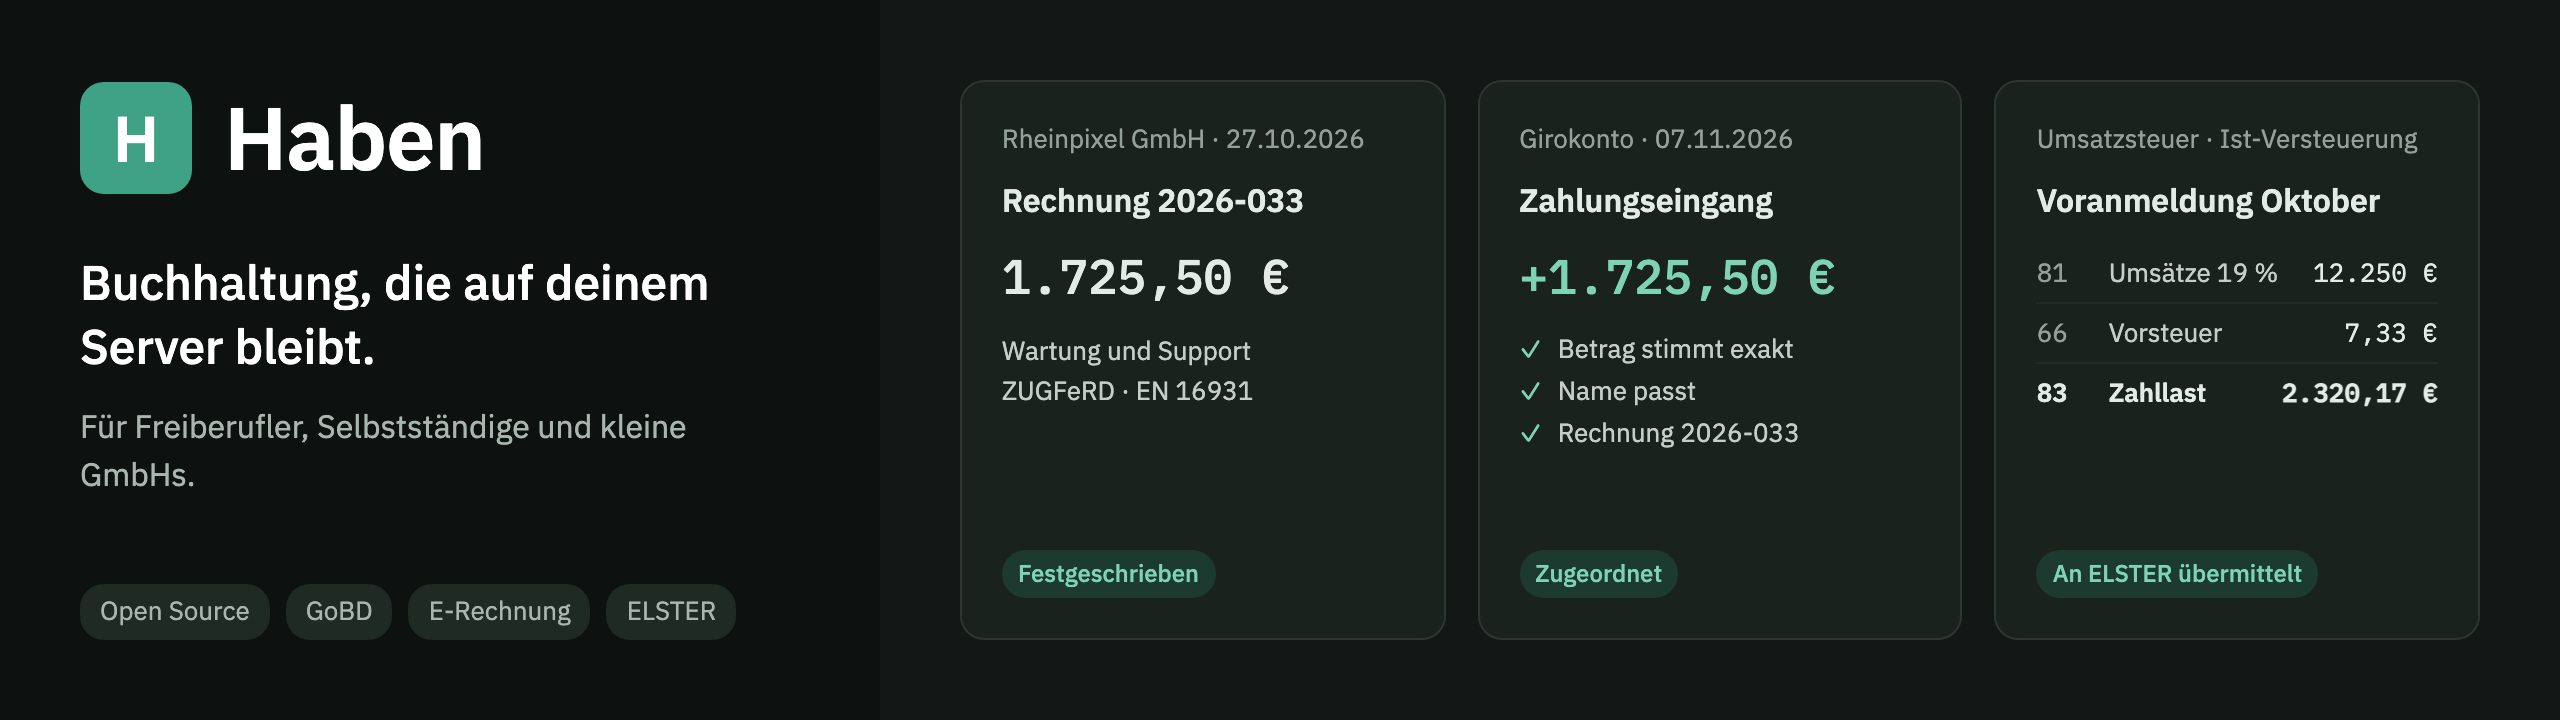
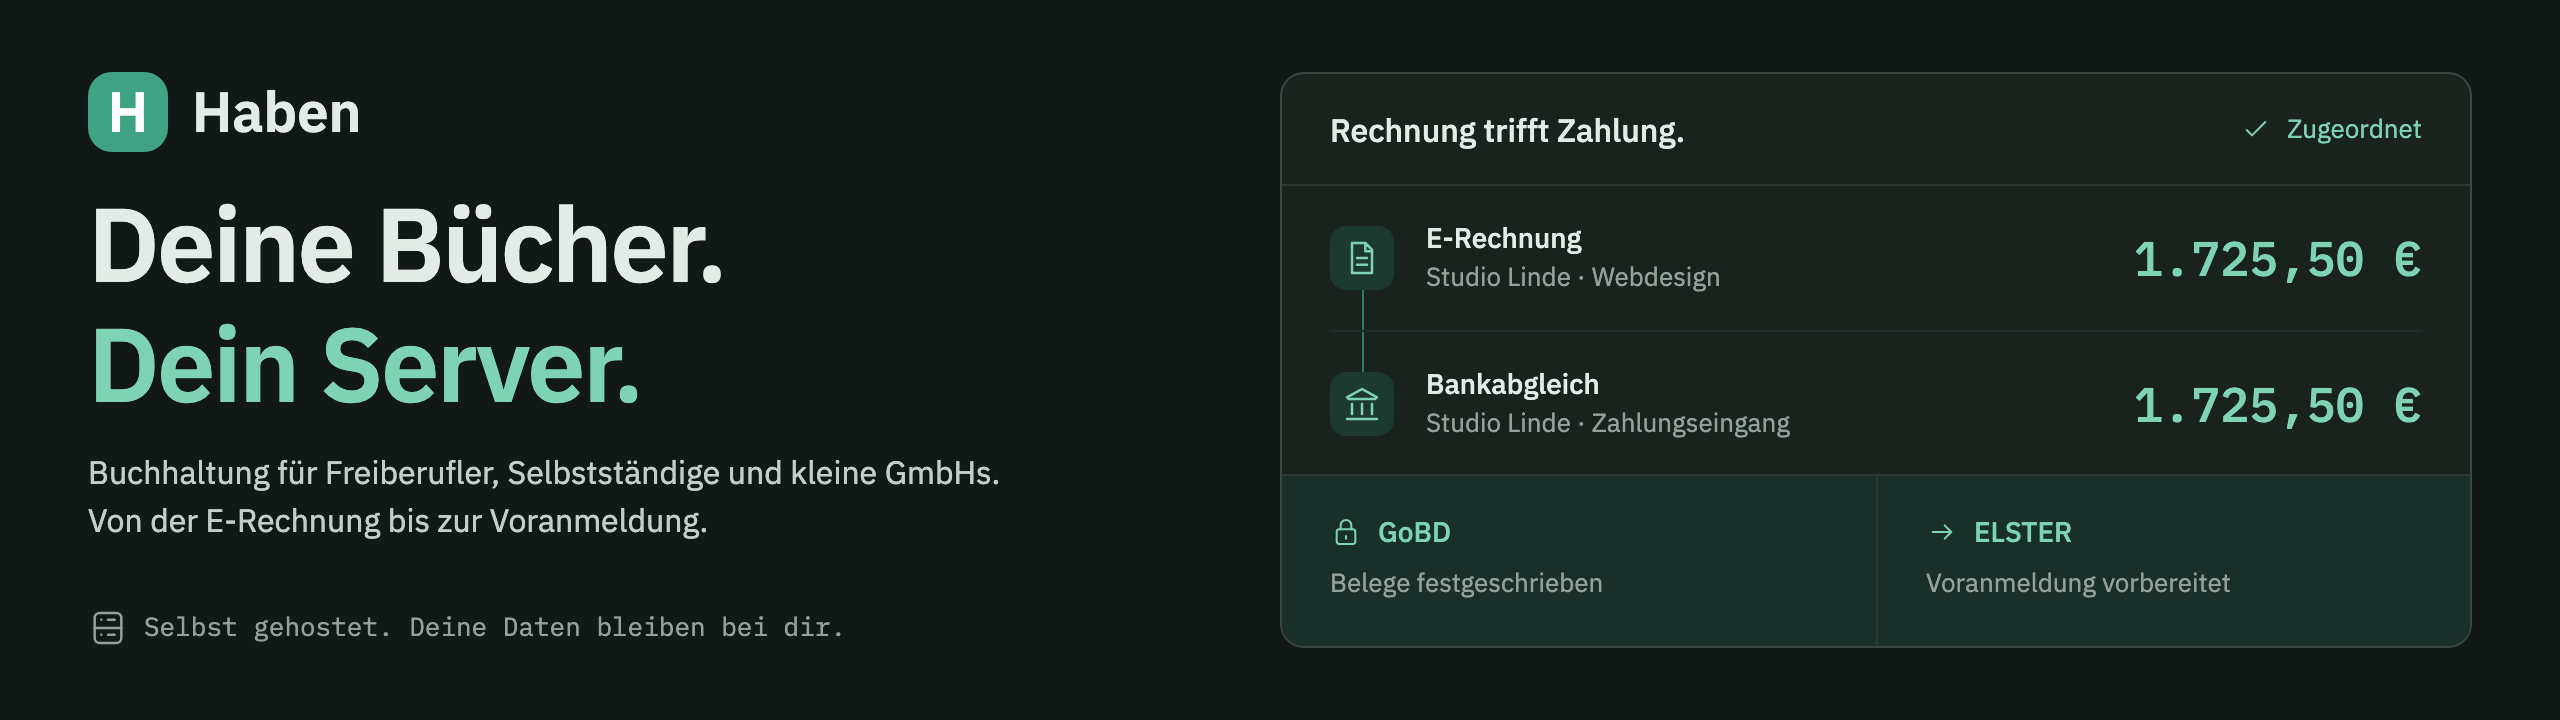
Hero und Vorschaubild: „Deine Bücher. Dein Server.“
Das Bild oben in der README ist jetzt der Entwurf von Codex: Überschrift links, rechts eine
Karte, in der Rechnung und Zahlungseingang zugeordnet sind, darunter GoBD und ELSTER. Der
Renderer bricht ab, wenn etwas aus dem Bild ragt. Das Vorschaubild übernimmt den Slogan.

diff --git a/scripts/hero/hero.html b/scripts/hero/hero.html
@@ -1,100 +1,111 @@
 <!doctype html>
-<!-- Vorlage für das Bild oben in der README, 1280 × 360 bei doppelter Auflösung.
+<!-- Bild oben in der README, 1280 × 360 bei doppelter Auflösung. Entwurf von Codex.
      Farben und Schriften wie in apps/web/src/styles.css: ohne Hash Wald (hell), mit #nacht das dunkle Theme.
      Rendern: bun run docs:hero → docs/hero-hell.png und docs/hero-dunkel.png -->
 <html lang="de">
 <head>
-<meta charset="utf-8">
-<style>
-  @font-face { font-family: "IBM Plex Sans"; font-weight: 400; src: url("../../apps/web/node_modules/@fontsource/ibm-plex-sans/files/ibm-plex-sans-latin-400-normal.woff2") format("woff2"); }
-  @font-face { font-family: "IBM Plex Sans"; font-weight: 500; src: url("../../apps/web/node_modules/@fontsource/ibm-plex-sans/files/ibm-plex-sans-latin-500-normal.woff2") format("woff2"); }
-  @font-face { font-family: "IBM Plex Sans"; font-weight: 600; src: url("../../apps/web/node_modules/@fontsource/ibm-plex-sans/files/ibm-plex-sans-latin-600-normal.woff2") format("woff2"); }
-  @font-face { font-family: "IBM Plex Mono"; font-weight: 400; src: url("../../apps/web/node_modules/@fontsource/ibm-plex-mono/files/ibm-plex-mono-latin-400-normal.woff2") format("woff2"); }
-  @font-face { font-family: "IBM Plex Mono"; font-weight: 500; src: url("../../apps/web/node_modules/@fontsource/ibm-plex-mono/files/ibm-plex-mono-latin-500-normal.woff2") format("woff2"); }
+  <meta charset="utf-8">
+  <meta name="viewport" content="width=1280, initial-scale=1">
+  <title>Haben – Deine Bücher. Dein Server.</title>
+  <script>document.documentElement.classList.toggle("nacht", location.hash === "#nacht");</script>
+  <style>
+    @font-face { font-family: "IBM Plex Sans"; font-style: normal; font-weight: 400; src: url("../../apps/web/node_modules/@fontsource/ibm-plex-sans/files/ibm-plex-sans-latin-400-normal.woff2") format("woff2"); }
+    @font-face { font-family: "IBM Plex Sans"; font-style: normal; font-weight: 500; src: url("../../apps/web/node_modules/@fontsource/ibm-plex-sans/files/ibm-plex-sans-latin-500-normal.woff2") format("woff2"); }
+    @font-face { font-family: "IBM Plex Sans"; font-style: normal; font-weight: 600; src: url("../../apps/web/node_modules/@fontsource/ibm-plex-sans/files/ibm-plex-sans-latin-600-normal.woff2") format("woff2"); }
+    @font-face { font-family: "IBM Plex Mono"; font-style: normal; font-weight: 400; src: url("../../apps/web/node_modules/@fontsource/ibm-plex-mono/files/ibm-plex-mono-latin-400-normal.woff2") format("woff2"); }
+    @font-face { font-family: "IBM Plex Mono"; font-style: normal; font-weight: 500; src: url("../../apps/web/node_modules/@fontsource/ibm-plex-mono/files/ibm-plex-mono-latin-500-normal.woff2") format("woff2"); }
 
-  /* Wald, wie :root in styles.css */
-  :root {
-    --ink: #16211c; --ink-2: #3f4a44; --muted: #56625c; --ground: #f4f5f2; --surface: #ffffff;
-    --line: #dde2de; --line-soft: #eef0ee; --accent: #1f6f5c; --accent-ink: #17574a; --accent-soft: #e5f1ec;
-    --brand: #3fa284; --nav: #16211c; --nav-active: #2a3b34; --nav-ink: #b9c4be;
-    --sans: "IBM Plex Sans", system-ui, sans-serif; --mono: "IBM Plex Mono", ui-monospace, monospace;
-  }
-  /* Nacht, wie [data-theme="nacht"] in styles.css */
-  :root.nacht {
-    --ink: #e4ebe7; --ink-2: #c3cec8; --muted: #93a19a; --ground: #121815; --surface: #1a221e;
-    --line: #2c3732; --line-soft: #222b27; --accent: #2a7f65; --accent-ink: #7fd3b5; --accent-soft: #1d3a31;
-    --brand: #3fa284; --nav: #0d1210; --nav-active: #1f2a25; --nav-ink: #a9b6af;
-  }
-
-  * { margin: 0; padding: 0; box-sizing: border-box; }
-  html, body { width: 1280px; height: 360px; overflow: hidden; }
-  body { display: flex; font-family: var(--sans); font-size: 14px; color: var(--ink); background: var(--ground); }
-
-  /* Links wie die Navigation der App */
-  .side { width: 440px; flex: none; background: var(--nav); color: var(--nav-ink); padding: 40px; display: flex; flex-direction: column; }
-  .brand { display: flex; align-items: center; gap: 16px; }
-  .logo { width: 56px; height: 56px; border-radius: 12px; background: var(--brand); color: #fff; display: grid; place-items: center; font-size: 32px; font-weight: 600; }
-  .name { font-size: 44px; font-weight: 600; color: #fff; letter-spacing: -0.5px; }
-  .claim { margin-top: 28px; font-size: 24px; line-height: 32px; color: #fff; font-weight: 500; }
-  .sub { margin-top: 12px; font-size: 16px; line-height: 24px; }
-  .facts { margin-top: auto; display: flex; gap: 8px; flex-wrap: wrap; }
-  .facts span { font-size: 13px; line-height: 16px; padding: 6px 10px; border-radius: 12px; background: var(--nav-active); color: var(--nav-ink); }
-
-  /* Rechts drei Karten wie auf der Übersicht */
-  .main { flex: 1; padding: 40px; display: flex; gap: 16px; align-items: stretch; }
-  .card { flex: 1; background: var(--surface); border: 1px solid var(--line); border-radius: 12px; padding: 20px; display: flex; flex-direction: column; gap: 12px; }
-  .label { font-size: 13px; color: var(--muted); }
-  h2 { font-size: 16px; font-weight: 600; }
-  .amount { font-family: var(--mono); font-size: 24px; font-weight: 500; }
-  .amount.in { color: var(--accent-ink); }
-  .meta { font-size: 13px; color: var(--ink-2); line-height: 20px; }
-  .checks { display: flex; flex-direction: column; gap: 4px; font-size: 13px; color: var(--ink-2); }
-  .checks div::before { content: "✓"; color: var(--accent-ink); margin-right: 8px; }
-  .kz { width: 100%; border-collapse: collapse; font-size: 13px; }
-  .kz td { padding: 6px 0; border-bottom: 1px solid var(--line-soft); color: var(--ink-2); }
-  .kz td:first-child { width: 36px; color: var(--muted); }
-  .kz td:last-child { text-align: right; font-family: var(--mono); color: var(--ink); }
-  .kz tr:last-child td { border-bottom: 0; border-top: 1px solid var(--ink); font-weight: 600; color: var(--ink); }
-  .foot { margin-top: auto; }
-  .pill { display: inline-block; font-size: 12px; font-weight: 500; line-height: 16px; padding: 4px 8px; border-radius: 12px; background: var(--line-soft); color: var(--ink-2); }
-  .pill-ok { background: var(--accent-soft); color: var(--accent-ink); }
-</style>
-<script>if (location.hash === "#nacht") document.documentElement.classList.add("nacht");</script>
+    /* Farb- und Schriftvariablen aus apps/web/src/styles.css: Wald und Nacht. */
+    :root {
+      color-scheme: light;
+      --ink: #16211c; --ink-2: #3f4a44; --muted: #56625c;
+      --ground: #f4f5f2; --surface: #ffffff;
+      --line: #dde2de; --line-soft: #eef0ee; --line-strong: #c9d0cb;
+      --accent: #1f6f5c; --accent-hover: #174f42; --accent-ink: #17574a;
+      --accent-soft: #e5f1ec; --accent-tint: #eef4f1;
+      --link: var(--accent); --link-hover: var(--accent-hover);
+      --brand: #3fa284; --nav: #16211c; --nav-active: #2a3b34; --nav-ink: #b9c4be;
+      --warn-ink: #8a3f05; --warn-soft: #fbebdd; --warn-dot: #b45309;
+      --info-ink: #1d4e89; --info-soft: #e6eef8;
+      --danger-ink: #9b1c1c; --danger-soft: #fbe4e4;
+      --sans: "IBM Plex Sans", system-ui, sans-serif;
+      --mono: "IBM Plex Mono", ui-monospace, monospace;
+    }
+    html.nacht {
+      color-scheme: dark;
+      --ink: #e4ebe7; --ink-2: #c3cec8; --muted: #93a19a;
+      --ground: #121815; --surface: #1a221e;
+      --line: #2c3732; --line-soft: #222b27; --line-strong: #3a4741;
+      --accent: #2a7f65; --accent-hover: #236b55; --accent-ink: #7fd3b5;
+      --accent-soft: #1d3a31; --accent-tint: #19302a;
+      --link: var(--accent-ink); --link-hover: var(--ink);
+      --brand: #3fa284; --nav: #0d1210; --nav-active: #1f2a25; --nav-ink: #a9b6af;
+      --warn-ink: #f2b880; --warn-soft: #3a2615; --warn-dot: #e08a3c;
+      --info-ink: #9cc3f0; --info-soft: #172a42;
+      --danger-ink: #f3a5a5; --danger-soft: #3d1a1a;
+    }
+    * { box-sizing: border-box; }
+    html, body { margin: 0; width: 1280px; height: 360px; }
+    body { background: var(--ground); color: var(--ink); font: 400 16px/24px var(--sans); }
+    main { position: relative; width: 1280px; height: 360px; padding: 36px 44px; display: grid; grid-template-columns: 548px 596px; gap: 48px; }
+    .intro { display: flex; flex-direction: column; align-items: flex-start; }
+    .brand { display: flex; align-items: center; gap: 12px; font-size: 28px; line-height: 40px; font-weight: 600; }
+    .brand-mark { width: 40px; height: 40px; display: grid; place-items: center; border-radius: 12px; background: var(--brand); color: #fff; font-size: 28px; }
+    h1 { margin: 16px 0 12px; font-size: 52px; line-height: 60px; font-weight: 600; letter-spacing: -1.2px; }
+    h1 span { display: block; color: var(--accent-ink); }
+    .description { margin: 0; color: var(--ink-2); font-size: 16px; line-height: 24px; }
+    .ownership { display: flex; align-items: center; gap: 8px; margin: auto 0 0; color: var(--muted); font: 400 13px/20px var(--mono); }
+    svg { width: 20px; height: 20px; flex: none; fill: none; stroke: currentColor; stroke-width: 1.5; stroke-linecap: round; stroke-linejoin: round; }
+    .ledger { display: grid; grid-template-rows: 56px 144px 1fr; align-self: start; height: 288px; background: var(--surface); border: 1px solid var(--line-strong); border-radius: 12px; overflow: hidden; }
+    .ledger-head { height: 56px; padding: 0 24px; display: flex; align-items: center; justify-content: space-between; border-bottom: 1px solid var(--line); }
+    h2 { margin: 0; font-size: 16px; line-height: 24px; font-weight: 500; }
+    .match { display: flex; gap: 8px; align-items: center; color: var(--accent-ink); font-size: 13px; }
+    .match svg { width: 16px; height: 16px; }
+    .entries { position: relative; padding: 0 24px; }
+    .entries::before { content: ""; position: absolute; left: 40px; top: 36px; bottom: 36px; width: 1px; background: var(--accent); }
+    .entry { position: relative; display: grid; grid-template-columns: 32px 1fr auto; align-items: center; gap: 16px; height: 72px; }
+    .entry + .entry { border-top: 1px solid var(--line-soft); }
+    .entry-icon { width: 32px; height: 32px; display: grid; place-items: center; background: var(--accent-soft); color: var(--accent-ink); border-radius: 8px; }
+    .entry-title { font-weight: 500; font-size: 14px; line-height: 20px; }
+    .entry-detail { color: var(--muted); font-size: 13px; line-height: 20px; }
+    .amount { font: 500 24px/32px var(--mono); white-space: nowrap; color: var(--accent-ink); }
+    .ledger-foot { display: grid; grid-template-columns: 1fr 1fr; border-top: 1px solid var(--line); background: var(--accent-tint); }
+    .result { padding: 16px 24px; }
+    .result + .result { border-left: 1px solid var(--line); }
+    .result-title { display: flex; gap: 8px; align-items: center; color: var(--accent-ink); font-size: 14px; line-height: 24px; font-weight: 500; }
+    .result-title svg { width: 16px; height: 16px; }
+    .result-detail { color: var(--muted); font-size: 13px; line-height: 20px; margin-top: 4px; }
+  </style>
 </head>
 <body>
-  <aside class="side">
-    <div class="brand"><div class="logo">H</div><div class="name">Haben</div></div>
-    <p class="claim">Buchhaltung, die auf deinem Server bleibt.</p>
-    <p class="sub">Für Freiberufler, Selbstständige und kleine GmbHs.</p>
-    <div class="facts"><span>Open Source</span><span>GoBD</span><span>E-Rechnung</span><span>ELSTER</span></div>
-  </aside>
-
-  <main class="main">
-    <section class="card">
-      <div class="label">Rheinpixel GmbH · 27.10.2026</div>
-      <h2>Rechnung 2026-033</h2>
-      <div class="amount">1.725,50 €</div>
-      <div class="meta">Wartung und Support<br>ZUGFeRD · EN 16931</div>
-      <div class="foot"><span class="pill pill-ok">Festgeschrieben</span></div>
+  <main aria-label="Haben: selbst gehostete Buchhaltung, von der E-Rechnung bis zu ELSTER">
+    <section class="intro">
+      <div class="brand"><span class="brand-mark">H</span>Haben</div>
+      <h1>Deine Bücher. <span>Dein Server.</span></h1>
+      <p class="description">Buchhaltung für Freiberufler, Selbstständige und kleine GmbHs.<br>Von der E-Rechnung bis zur Voranmeldung.</p>
+      <p class="ownership"><svg aria-hidden="true" viewBox="0 0 24 24"><rect x="4" y="3" width="16" height="18" rx="3"/><path d="M4 12h16M8 7h.01M8 16h.01M12 7h4M12 16h4"/></svg>Selbst gehostet. Deine Daten bleiben bei dir.</p>
     </section>
-
-    <section class="card">
-      <div class="label">Girokonto · 07.11.2026</div>
-      <h2>Zahlungseingang</h2>
-      <div class="amount in">+1.725,50 €</div>
-      <div class="checks"><div>Betrag stimmt exakt</div><div>Name passt</div><div>Rechnung 2026-033</div></div>
-      <div class="foot"><span class="pill pill-ok">Zugeordnet</span></div>
-    </section>
-
-    <section class="card">
-      <div class="label">Umsatzsteuer · Ist-Versteuerung</div>
-      <h2>Voranmeldung Oktober</h2>
-      <table class="kz">
-        <tr><td>81</td><td>Umsätze 19 %</td><td>12.250 €</td></tr>
-        <tr><td>66</td><td>Vorsteuer</td><td>7,33 €</td></tr>
-        <tr><td>83</td><td>Zahllast</td><td>2.320,17 €</td></tr>
-      </table>
-      <div class="foot"><span class="pill pill-ok">An ELSTER übermittelt</span></div>
+    <section class="ledger" aria-label="Beispiel: Rechnung und Bankzahlung zugeordnet">
+      <header class="ledger-head">
+        <h2>Rechnung trifft Zahlung.</h2>
+        <span class="match"><svg aria-hidden="true" viewBox="0 0 24 24"><path d="m5 12 4 4L19 6"/></svg>Zugeordnet</span>
+      </header>
+      <div class="entries">
+        <div class="entry">
+          <span class="entry-icon"><svg aria-hidden="true" viewBox="0 0 24 24"><path d="M14 3H6v18h12V7zM14 3v5h4M9 12h6M9 16h6"/></svg></span>
+          <div><div class="entry-title">E-Rechnung</div><div class="entry-detail">Studio Linde · Webdesign</div></div>
+          <span class="amount">1.725,50 €</span>
+        </div>
+        <div class="entry">
+          <span class="entry-icon"><svg aria-hidden="true" viewBox="0 0 24 24"><path d="m3 8 9-5 9 5M4 9h16M6 12v6M12 12v6M18 12v6M3 21h18"/></svg></span>
+          <div><div class="entry-title">Bankabgleich</div><div class="entry-detail">Studio Linde · Zahlungseingang</div></div>
+          <span class="amount">1.725,50 €</span>
+        </div>
+      </div>
+      <footer class="ledger-foot">
+        <div class="result"><div class="result-title"><svg aria-hidden="true" viewBox="0 0 24 24"><rect x="5" y="10" width="14" height="11" rx="2"/><path d="M8 10V7a4 4 0 0 1 8 0v3M12 15v2"/></svg>GoBD</div><div class="result-detail">Belege festgeschrieben</div></div>
+        <div class="result"><div class="result-title"><svg aria-hidden="true" viewBox="0 0 24 24"><path d="M5 12h14m-5-5 5 5-5 5"/></svg>ELSTER</div><div class="result-detail">Voranmeldung vorbereitet</div></div>
+      </footer>
     </section>
   </main>
 </body>

diff --git a/scripts/social-preview/social-preview.html b/scripts/social-preview/social-preview.html
@@ -22,7 +22,9 @@
   .brand { display: flex; align-items: center; gap: 20px; }
   .logo { width: 72px; height: 72px; border-radius: 16px; background: var(--brand); color: #fff; display: grid; place-items: center; font-size: 40px; font-weight: 600; }
   .name { font-size: 56px; font-weight: 600; color: #fff; letter-spacing: -0.8px; }
-  .claim { margin-top: 48px; font-size: 32px; line-height: 40px; font-weight: 500; color: #fff; }
+  .claim { margin-top: 40px; font-size: 44px; line-height: 52px; font-weight: 600; color: #fff; letter-spacing: -0.8px; }
+  /* Zweite Zeile in der Markenfarbe, wie im Hero der README */
+  .claim span { color: var(--brand); }
   .sub { margin-top: 16px; font-size: 20px; line-height: 28px; }
   .facts { margin-top: auto; display: flex; gap: 8px; flex-wrap: wrap; }
   .facts span { font-size: 15px; line-height: 20px; padding: 6px 10px; border-radius: 16px; background: var(--nav-active); }
@@ -49,8 +51,8 @@
 <body>
   <aside class="side">
     <div class="brand"><div class="logo">H</div><div class="name">Haben</div></div>
-    <p class="claim">Buchhaltung, die auf deinem Server bleibt.</p>
-    <p class="sub">Open Source für Freiberufler, Selbstständige und kleine GmbHs.</p>
+    <p class="claim">Deine Bücher.<br><span>Dein Server.</span></p>
+    <p class="sub">Open-Source-Buchhaltung für Freiberufler, Selbstständige und kleine GmbHs.</p>
     <div class="facts"><span>E-Rechnung</span><span>ELSTER</span><span>GoBD</span><span>AGPL</span></div>
   </aside>
   <div class="shot"><img src="../../docs/screenshot-uebersicht.png" alt=""></div>

diff --git a/README.md b/README.md
@@ -4,7 +4,7 @@
 
 <picture>
   <source media="(prefers-color-scheme: dark)" srcset="docs/hero-dunkel.png">
-  <img src="docs/hero-hell.png" alt="Haben: Rechnung 2026-033 festgeschrieben, Zahlungseingang zugeordnet, Voranmeldung Oktober an ELSTER übermittelt" width="900">
+  <img src="docs/hero-hell.png" alt="Haben, Deine Bücher. Dein Server.: E-Rechnung und Zahlungseingang über 1.725,50 € zugeordnet, Belege nach GoBD festgeschrieben, Voranmeldung für ELSTER vorbereitet" width="900">
 </picture>
 
 **Die Buchhaltungssoftware für Freiberufler, Selbstständige, Kleinunternehmer und kleine GmbHs, die du selbst betreibst.**<br>
